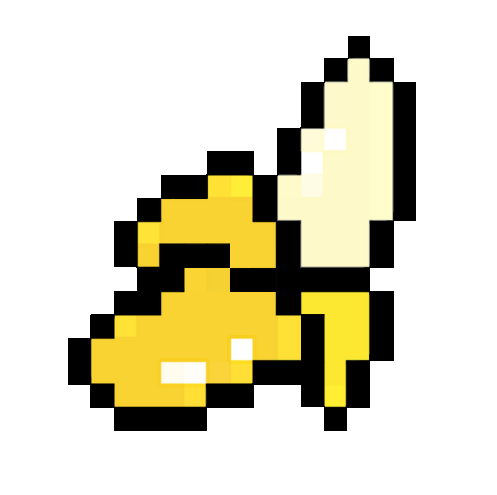
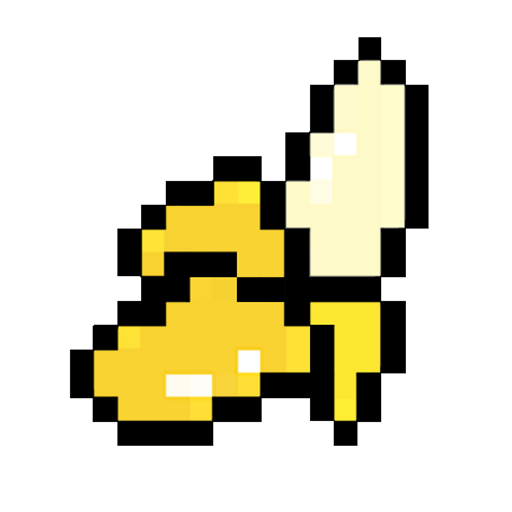
fix: local-first boomerang rendering + banana texture fix
- Boomerang visuals now render instantly on throw (no server round-trip delay)
- Skip shellDropped echo for local player to prevent duplicate visuals
- All throw sites use fireServerProjectile() helper
- Increase projectile pool from 6 to 10 per color (supports 20+ players)
- Resize banana.png to 512x512 power-of-two (fixes blurry deploy texture)

diff --git a/src/systems/projectileSystem.ts b/src/systems/projectileSystem.ts
@@ -563,15 +563,20 @@ function processWallRaycasts(): void {
 
 // ── Message listeners (registered at module scope for reliable delivery) ──
 room.onMessage('shellDropped', (data) => {
-  // Create visual from message bus (instant, no CRDT dependency).
-  // Mobile live CRDT sync is unreliable — this ensures the visual always appears.
-  createMsgProjectileVisual(data.x, data.y, data.z, data.dirX, data.dirZ, data.color, data.firedBy, data.chargeSpeed, data.chargeRange, data.chargeScale)
-
-  // Play release sound for remote blue charged throws so everyone hears it
-  // Local player already plays it in the E-key-up handler — skip for self
+  // Skip for local player — visual is created instantly at throw time (local-first)
   const localUserId = getPlayerData()?.userId?.toLowerCase() || ''
   const throwerId = (data.firedBy || '').toLowerCase()
-  if (throwerId && throwerId !== localUserId && data.color === 'b' && data.chargeSpeed >= 55) {
+  if (throwerId && throwerId === localUserId) {
+    // Mark that server acknowledged our throw (visual already exists)
+    if (localThrowActive && !localThrowSawVisual) localThrowSawVisual = true
+    return
+  }
+
+  // Remote player: create visual from message bus (instant, no CRDT dependency).
+  createMsgProjectileVisual(data.x, data.y, data.z, data.dirX, data.dirZ, data.color, data.firedBy, data.chargeSpeed, data.chargeRange, data.chargeScale)
+
+  // Play release sound for remote blue charged throws
+  if (throwerId && data.color === 'b' && data.chargeSpeed >= 55) {
     playReleaseSoundAt(Vector3.create(data.x, data.y, data.z))
   }
 })
@@ -860,7 +865,7 @@ function updateLocalProjectiles(dt: number): void {
 // GltfContainer already loaded. This avoids swapping .glb src on reuse, which
 // triggers a Decentraland engine bug where rapid GltfContainer model swaps
 // cause models to stop rendering after repeated use.
-const POOL_SIZE_PER_COLOR = 6
+const POOL_SIZE_PER_COLOR = 10
 const BOOMERANG_COLORS = ['r', 'y', 'b', 'g'] as const
 const projectilePoolByColor: Map<string, Entity[]> = new Map()
 let projectilePoolReady = false
@@ -1110,6 +1115,25 @@ function updateMsgProjectileVisuals(dt: number): void {
   }
 }
 
+/** Fire a projectile via server with instant local visual (local-first rendering). */
+function fireServerProjectile(dirX: number, dirZ: number, color: string, speed: number, range: number, scale: number): void {
+  const localUserId = getPlayerData()?.userId?.toLowerCase() || ''
+  localThrowActive = true; localThrowSawVisual = true; localThrowStartMs = Date.now()
+  updateHandBoomerangVisibility()
+
+  // Create visual IMMEDIATELY — don't wait for server echo
+  if (Transform.has(engine.PlayerEntity)) {
+    const playerPos = Transform.get(engine.PlayerEntity).position
+    const spawnPos = Vector3.create(playerPos.x + dirX * 1.0, playerPos.y + 0.8, playerPos.z + dirZ * 1.0)
+    createMsgProjectileVisual(spawnPos.x, spawnPos.y, spawnPos.z, dirX, dirZ, color, localUserId, speed, range, scale)
+    fireWallRaycast(spawnPos, dirX, dirZ)
+  }
+
+  // Tell server to create authoritative projectile
+  room.send('requestShell', { dirX, dirZ, color, chargeSpeed: speed, chargeRange: range, chargeScale: scale })
+  console.log('[Projectile] 🎯 Local-first projectile fired dir:', dirX.toFixed(2), dirZ.toFixed(2), 'speed:', speed, 'range:', range)
+}
+
 /** Fire a projectile from the UI (mobile tap). Same logic as E key press. */
 export function triggerProjectileFromUI(): void {
   if (isDrownRespawning()) return
@@ -1146,17 +1170,9 @@ export function triggerProjectileFromUI(): void {
   const serverUp = isServerConnected()
 
   if (serverUp) {
-    console.log('[Projectile] 🎯 UI tap — requesting projectile fire (server)')
-    localThrowActive = true; localThrowSawVisual = false; localThrowStartMs = Date.now()
-    updateHandBoomerangVisibility()
     const uiRange = uiColor === 'r' ? RED_RANGE : CHARGE_MIN_RANGE
     const uiSpeed = CHARGE_MIN_SPEED
-    room.send('requestShell', { dirX, dirZ, color: uiColor, chargeSpeed: uiSpeed, chargeRange: uiRange, chargeScale: 1 })
-    if (Transform.has(engine.PlayerEntity)) {
-      const playerPos = Transform.get(engine.PlayerEntity).position
-      const spawnPos = Vector3.create(playerPos.x + dirX * 1.0, playerPos.y + 0.8, playerPos.z + dirZ * 1.0)
-      fireWallRaycast(spawnPos, dirX, dirZ)
-    }
+    fireServerProjectile(dirX, dirZ, uiColor, uiSpeed, uiRange, 1)
   } else {
     console.log('[Projectile] 🎯 UI tap — firing projectile locally (no server)')
     localThrowActive = true; localThrowSawVisual = false; localThrowStartMs = Date.now()
@@ -1245,13 +1261,7 @@ export function projectileClientSystem(dt: number): void {
     yellowSecondThrowAt = 0
     const serverUp = isServerConnected()
     if (serverUp) {
-      room.send('requestShell', { dirX: yellowSecondThrowDir.dirX, dirZ: yellowSecondThrowDir.dirZ, color: 'y', chargeSpeed: CHARGE_MIN_SPEED, chargeRange: CHARGE_MIN_RANGE, chargeScale: 1 })
-      // Fire wall raycast for 2nd throw so it bounces off walls like the 1st
-      if (Transform.has(engine.PlayerEntity)) {
-        const playerPos = Transform.get(engine.PlayerEntity).position
-        const spawnPos = Vector3.create(playerPos.x + yellowSecondThrowDir.dirX * 1.0, playerPos.y + 0.8, playerPos.z + yellowSecondThrowDir.dirZ * 1.0)
-        fireWallRaycast(spawnPos, yellowSecondThrowDir.dirX, yellowSecondThrowDir.dirZ)
-      }
+      fireServerProjectile(yellowSecondThrowDir.dirX, yellowSecondThrowDir.dirZ, 'y', CHARGE_MIN_SPEED, CHARGE_MIN_RANGE, 1)
     } else {
       fireProjectileLocally(CHARGE_MIN_SPEED, CHARGE_MIN_RANGE)
     }
@@ -1311,15 +1321,7 @@ export function projectileClientSystem(dt: number): void {
       const range = currentColor === 'r' ? RED_RANGE : CHARGE_MIN_RANGE
       const speed = CHARGE_MIN_SPEED
       if (serverUp) {
-        localThrowActive = true; localThrowSawVisual = false; localThrowStartMs = Date.now()
-        updateHandBoomerangVisibility()
-        room.send('requestShell', { dirX, dirZ, color: currentColor, chargeSpeed: speed, chargeRange: range, chargeScale: 1 })
-
-        if (Transform.has(engine.PlayerEntity)) {
-          const playerPos = Transform.get(engine.PlayerEntity).position
-          const spawnPos = Vector3.create(playerPos.x + dirX * 1.0, playerPos.y + 0.8, playerPos.z + dirZ * 1.0)
-          fireWallRaycast(spawnPos, dirX, dirZ)
-        }
+        fireServerProjectile(dirX, dirZ, currentColor, speed, range, 1)
       } else {
         localThrowActive = true; localThrowSawVisual = false; localThrowStartMs = Date.now()
         updateHandBoomerangVisibility()
@@ -1417,15 +1419,7 @@ export function projectileClientSystem(dt: number): void {
     const { dirX, dirZ } = getPlayerForward()
 
     if (serverUp) {
-      localThrowActive = true; localThrowSawVisual = false; localThrowStartMs = Date.now()
-      updateHandBoomerangVisibility()
-      room.send('requestShell', { dirX, dirZ, color: currentColor, chargeSpeed, chargeRange, chargeScale })
-
-      if (Transform.has(engine.PlayerEntity)) {
-        const playerPos = Transform.get(engine.PlayerEntity).position
-        const spawnPos = Vector3.create(playerPos.x + dirX * 1.0, playerPos.y + 0.8, playerPos.z + dirZ * 1.0)
-        fireWallRaycast(spawnPos, dirX, dirZ)
-      }
+      fireServerProjectile(dirX, dirZ, currentColor, chargeSpeed, chargeRange, chargeScale)
     } else {
       localThrowActive = true; localThrowSawVisual = false; localThrowStartMs = Date.now()
       updateHandBoomerangVisibility()
